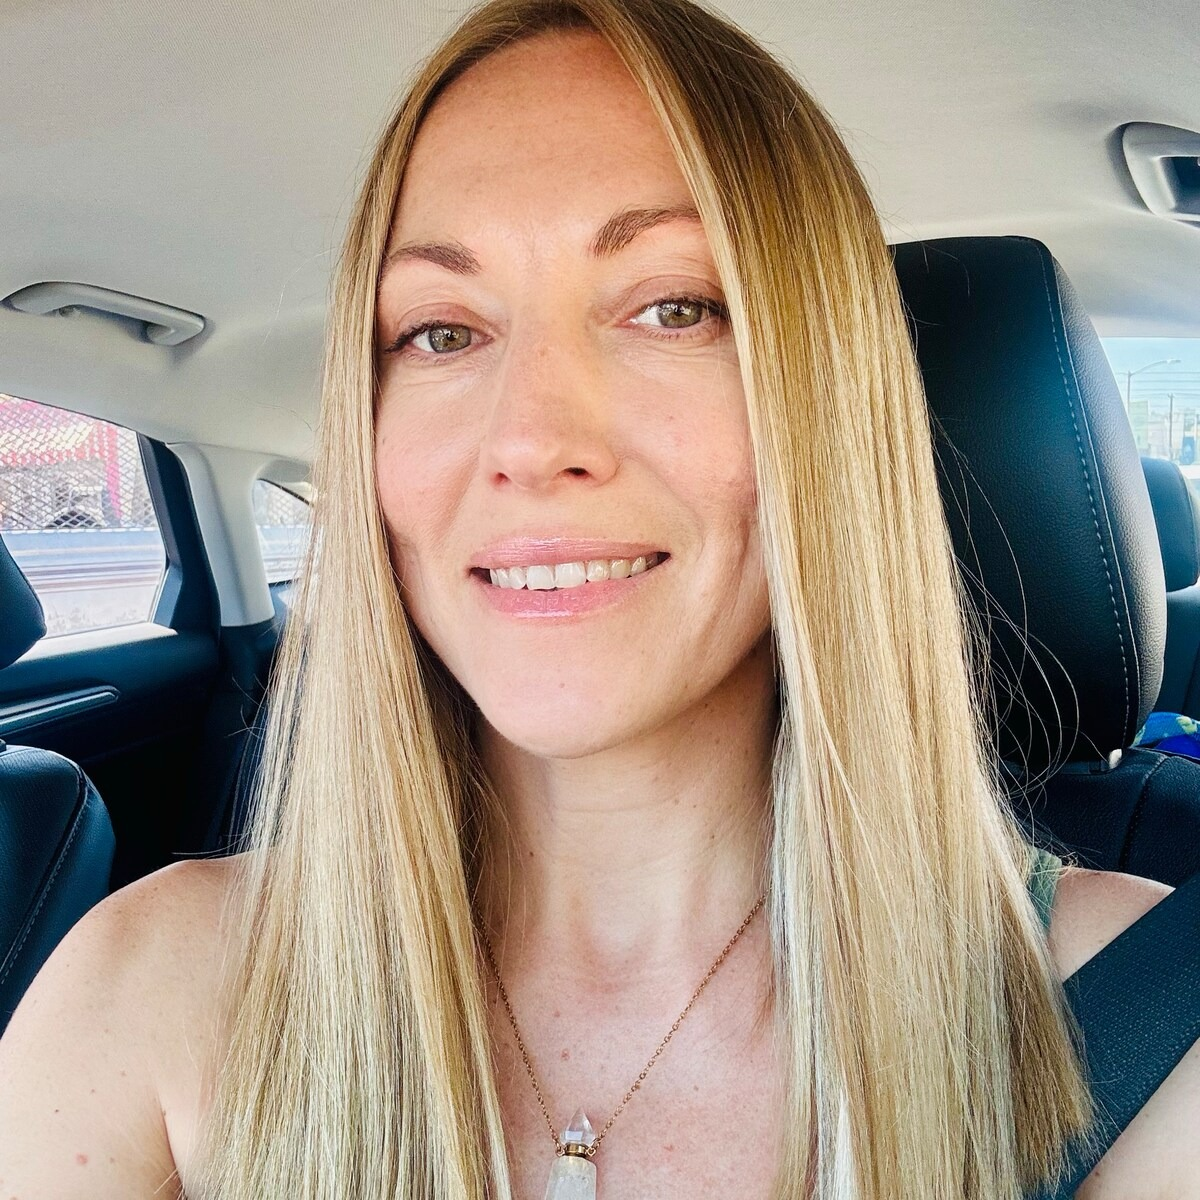
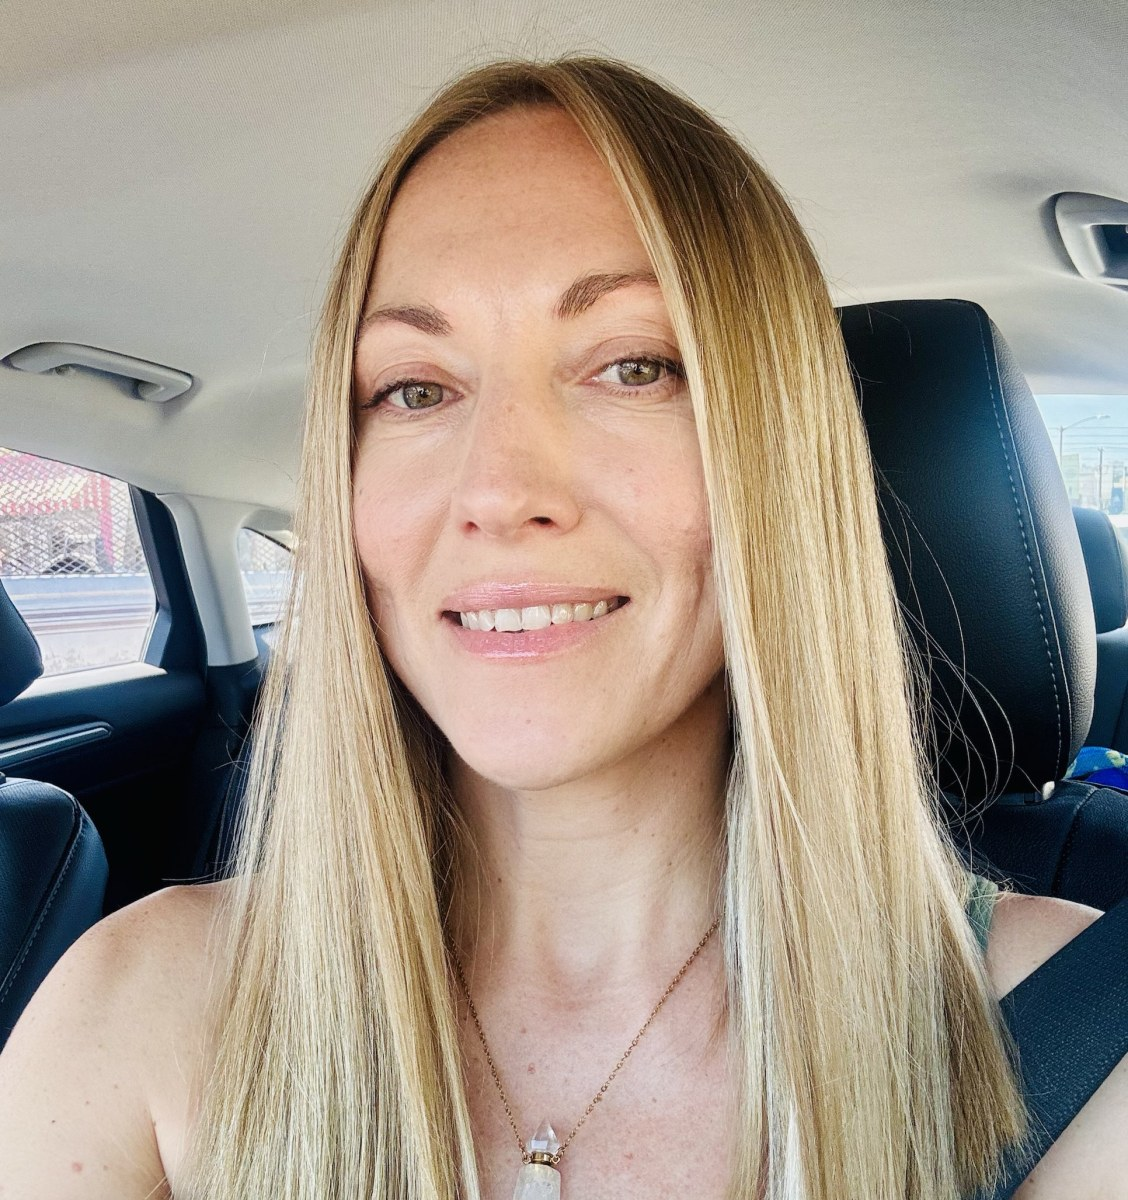
Hosts: new Sofia photo on right, sizes matched, brighter Yuri eyes
Claude-Session: https://claude.ai/code/session_012xw2xFxZAjV8b6ebVyiBLw

diff --git a/index.html b/index.html
@@ -904,7 +904,7 @@ function viewHome(){
 
   '<section><div class="wrap gHost" style="padding-top:80px;padding-bottom:80px;display:grid;grid-template-columns:1fr 1.2fr;gap:60px;align-items:center">' +
     '<div style="display:grid;grid-template-columns:1fr 1fr;gap:18px;max-width:480px;width:100%;justify-self:center">' +
-      [['images/host.jpg?v=3','Sofia','The creative','Design & decor'],['images/yuri.jpg?v=1','Yuri','The muscle','Bookings & fixings']].map(function(h){ return '<div style="text-align:center"><div class="arch" style="aspect-ratio:0.94;width:100%"><img src="'+h[0]+'" alt="'+h[1]+', your ARTBNB host" loading="lazy" style="width:100%;height:100%;object-fit:cover"></div>' +
+      [['images/yuri.jpg?v=2','Yuri','The muscle','Bookings & fixings'],['images/host.jpg?v=4','Sofia','The creative','Design & decor']].map(function(h){ return '<div style="text-align:center"><div class="arch" style="aspect-ratio:0.94;width:100%"><img src="'+h[0]+'" alt="'+h[1]+', your ARTBNB host" loading="lazy" style="width:100%;height:100%;object-fit:cover"></div>' +
         '<div style="font-family:var(--font-head),serif;font-size:19px;margin-top:12px">'+h[1]+'</div><div style="font-size:10.5px;letter-spacing:0.13em;font-weight:700;color:#DDA3B2;margin-top:3px">'+h[2].toUpperCase()+'</div><div style="font-size:12px;color:#6E6266;margin-top:4px">'+h[3]+'</div></div>'; }).join('') +
     '</div>' +
     '<div><div class="kick" style="margin-bottom:14px">MEET YOUR HOSTS</div>' +
